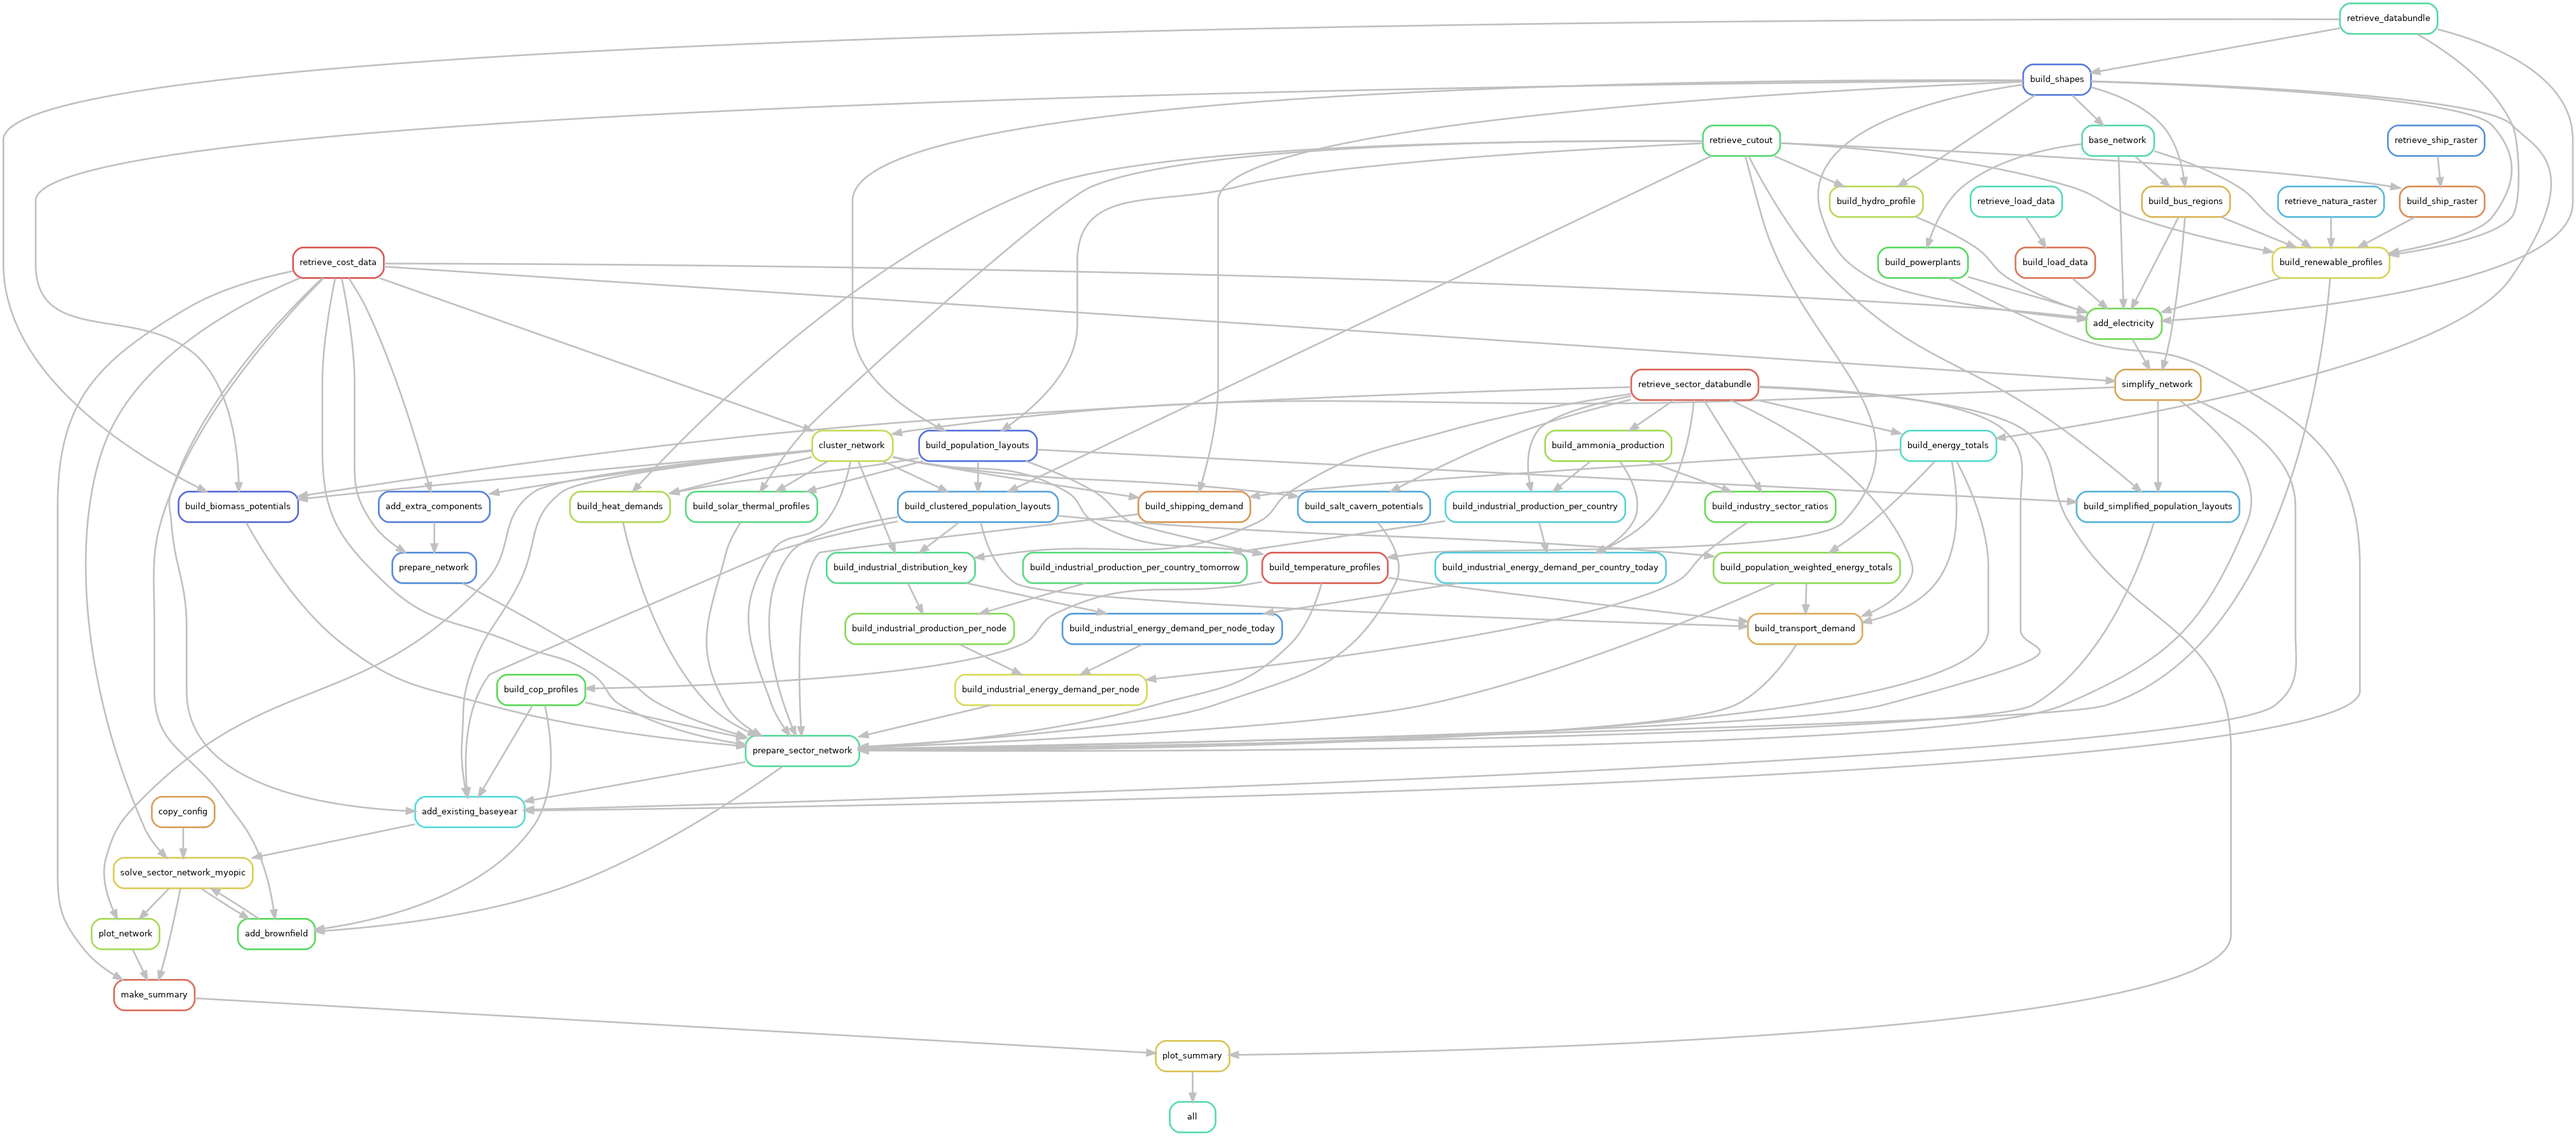
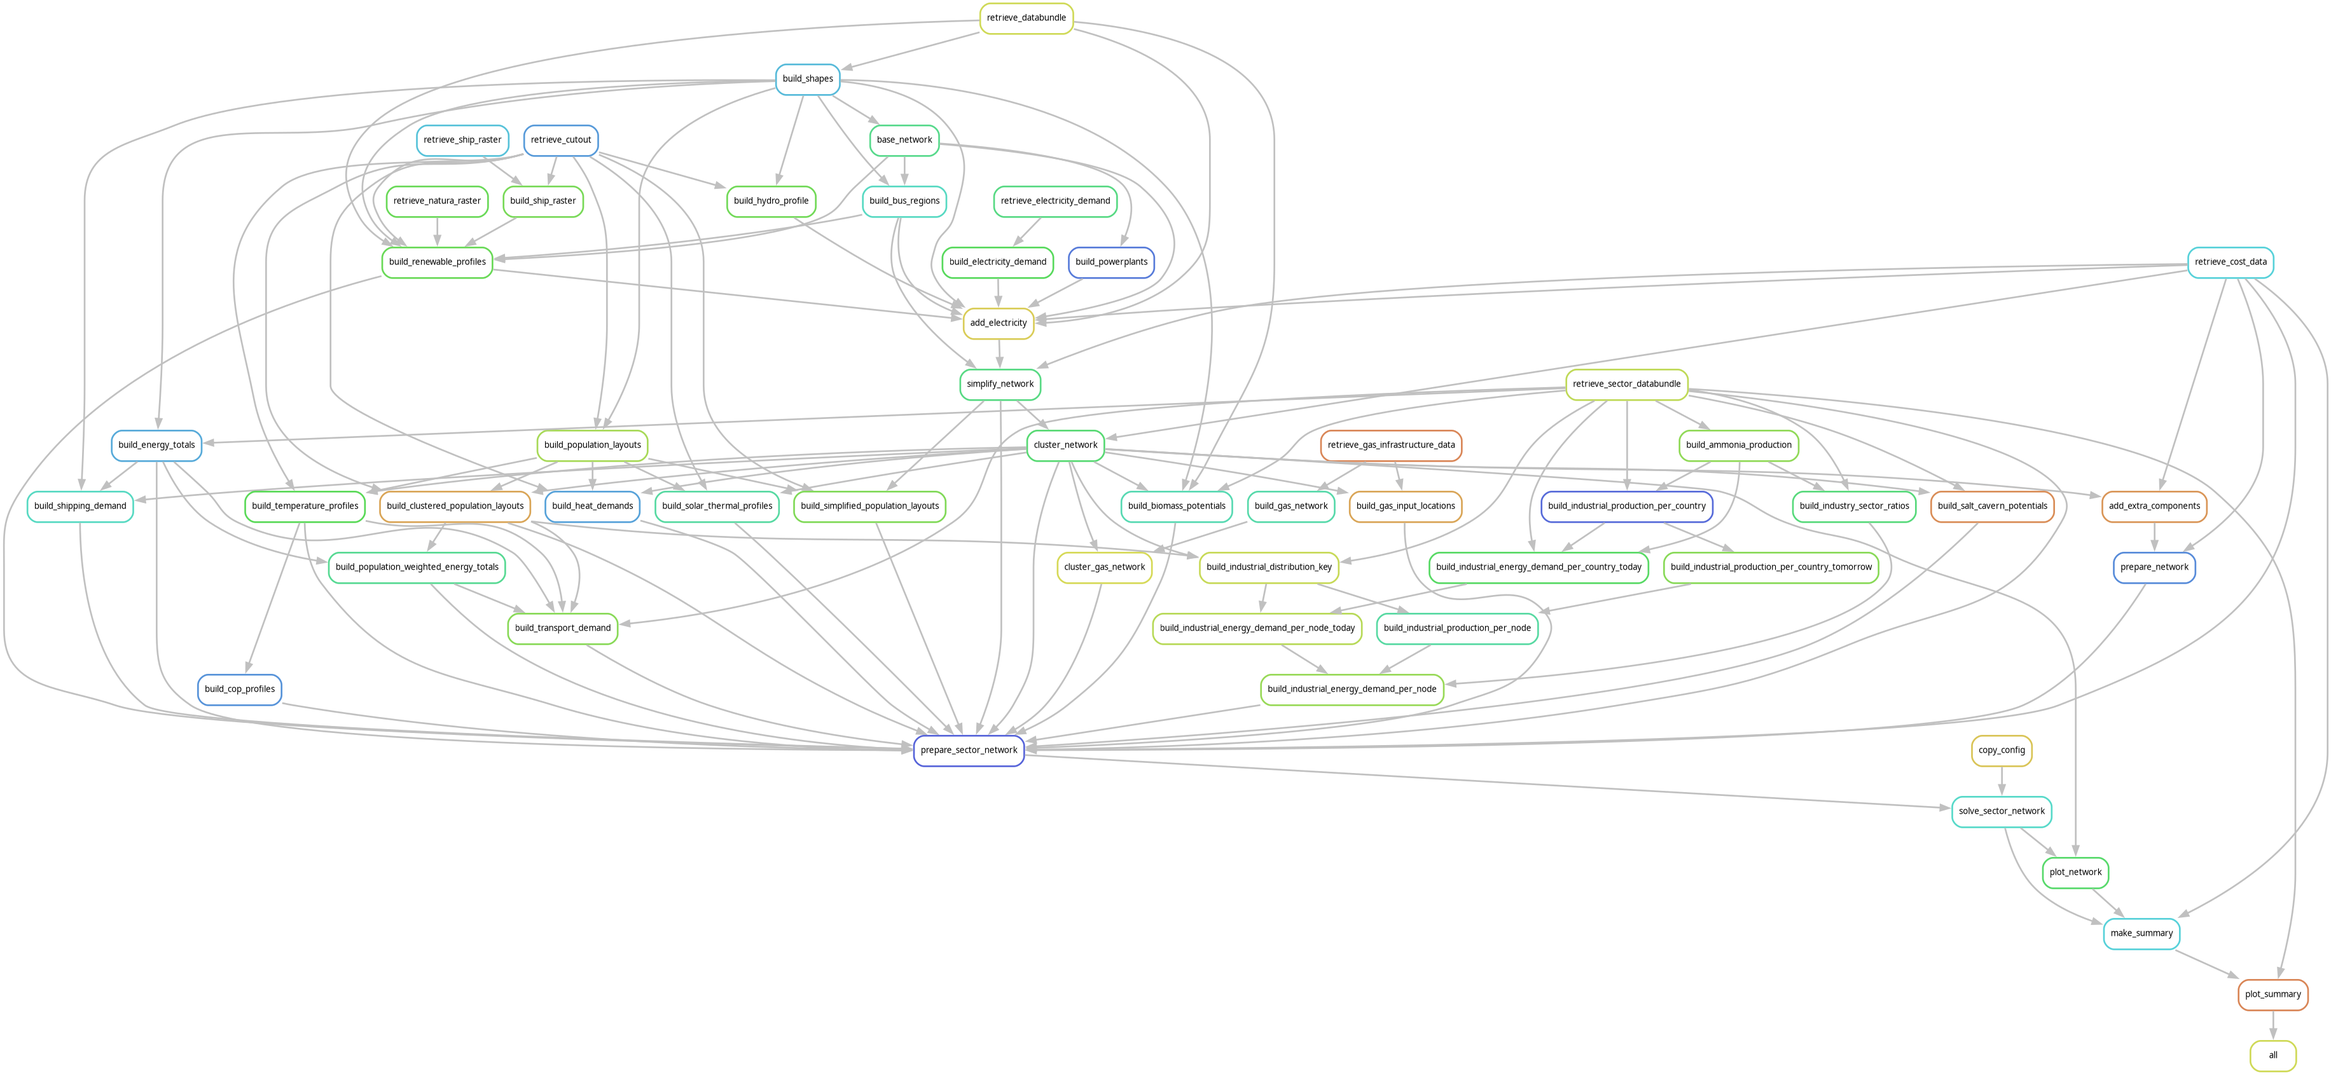
documentation fixes

diff --git a/doc/index.rst b/doc/index.rst
@@ -35,6 +35,8 @@ PyPSA-Eur: A Sector-Coupled Open Optimisation Model of the European Energy Syste
    :target: https://stackoverflow.com/questions/tagged/pypsa
    :alt: Stackoverflow
 
+|
+
 PyPSA-Eur is an open model dataset of the European energy system at the
 transmission network level that covers the full ENTSO-E area. It covers demand
 and supply for all energy sectors. From version v0.8.0, PyPSA-Eur includes all
@@ -207,24 +209,6 @@ If you want to cite a specific PyPSA-Eur version, each release of PyPSA-Eur is s
 
 .. image:: https://zenodo.org/badge/DOI/10.5281/zenodo.3520874.svg
    :target: https://doi.org/10.5281/zenodo.3520874
-
-
-Pre-Built Networks as a Dataset
-===============================
-
-There are pre-built networks available as a dataset on Zenodo as well for every release of PyPSA-Eur.
-
-.. image:: https://zenodo.org/badge/DOI/10.5281/zenodo.3601881.svg
-   :target: https://doi.org/10.5281/zenodo.3601881
-
-The included ``.nc`` files are PyPSA network files which can be imported with PyPSA via:
-
-.. code:: python
-
-    import pypsa
-
-    filename = "elec_s_1024_ec.nc"  # example
-    n = pypsa.Network(filename)
 
 
 Operating Systems

diff --git a/doc/release_notes.rst b/doc/release_notes.rst
@@ -158,6 +158,8 @@ PyPSA-Eur 0.9.0 (5th January 2024)
 * Remove "conservative" renewable potentials estimation option
   (https://github.com/PyPSA/pypsa-eur/pull/838).
 
+* With this release we stop posting updates to the network pre-builts.
+
 **Changes**
 
 * Updated Global Energy Monitor LNG terminal data to March 2023 version
@@ -1675,9 +1677,5 @@ Release Process
 * Tag a release on Github via ``git tag v0.x.x``, ``git push``, ``git push --tags``. Include release notes in the tag message.
 
 * Make a `GitHub release <https://github.com/PyPSA/pypsa-eur-sec/releases>`_, which automatically triggers archiving to the `zenodo code repository <https://doi.org/10.5281/zenodo.3520874>`_ with `MIT license <https://opensource.org/licenses/MIT>`_.
-
-* Create pre-built networks for ``config.default.yaml`` by running ``snakemake -call prepare_sector_networks``.
-
-* Upload pre-built networks to `zenodo data repository <https://doi.org/10.5281/zenodo.3601881>`_ with `CC BY 4.0 <https://creativecommons.org/licenses/by/4.0/>`_ license.
 
 * Send announcement on the `PyPSA mailing list <https://groups.google.com/forum/#!forum/pypsa>`_.

diff --git a/doc/spatial_resolution.rst b/doc/spatial_resolution.rst
@@ -45,7 +45,7 @@ Here are some examples of how spatial resolution is set for different sectors in
 
 •	CO2: It can be modeled as a single node for Europe or it can be nodally resolved with CO2 transport pipelines if activated in the `config <https://github.com/PyPSA/pypsa-eur-sec/blob/3daff49c9999ba7ca7534df4e587e1d516044fc3/config.default.yaml#L248>`_. It should mentioned that in single node mode a transport and storage cost is added for sequestered CO2, the cost of which can be adjusted in the `config <https://github.com/PyPSA/pypsa-eur-sec/blob/3daff49c9999ba7ca7534df4e587e1d516044fc3/config.default.yaml#L247>`_.
 
-•	Liquid hydrocarbons: Modeled as a single node for Europe, since transport costs for liquids are low and no bottlenecks are expected.
+•	Carbonaceous fuels: Modeled as a single node for Europe by default, since transport costs for liquids are low and no bottlenecks are expected. Can be regionally resolved in configuration.
 
 **Electricity distribution network**
 

diff --git a/doc/introduction.rst b/doc/introduction.rst
@@ -89,8 +89,8 @@ Folder Structure
 - ``results``: Stores the solved PyPSA network data, summary files and plots.
 - ``logs``: Stores log files.
 - ``benchmarks``: Stores ``snakemake`` benchmarks.
-- ``test``: Includes the test configuration files used for continuous integration.
 - ``doc``: Includes the documentation of PyPSA-Eur.
+- ``graphics``: Includes some graphics for the documentation of PyPSA-Eur.
 
 System Requirements
 ===================

diff --git a/doc/configuration.rst b/doc/configuration.rst
@@ -383,7 +383,7 @@ overwrite the existing values.
 
 .. literalinclude:: ../config/config.default.yaml
    :language: yaml
-   :start-after:   type:
+   :start-after: # docs-load
    :end-before: # docs
 
 .. csv-table::
